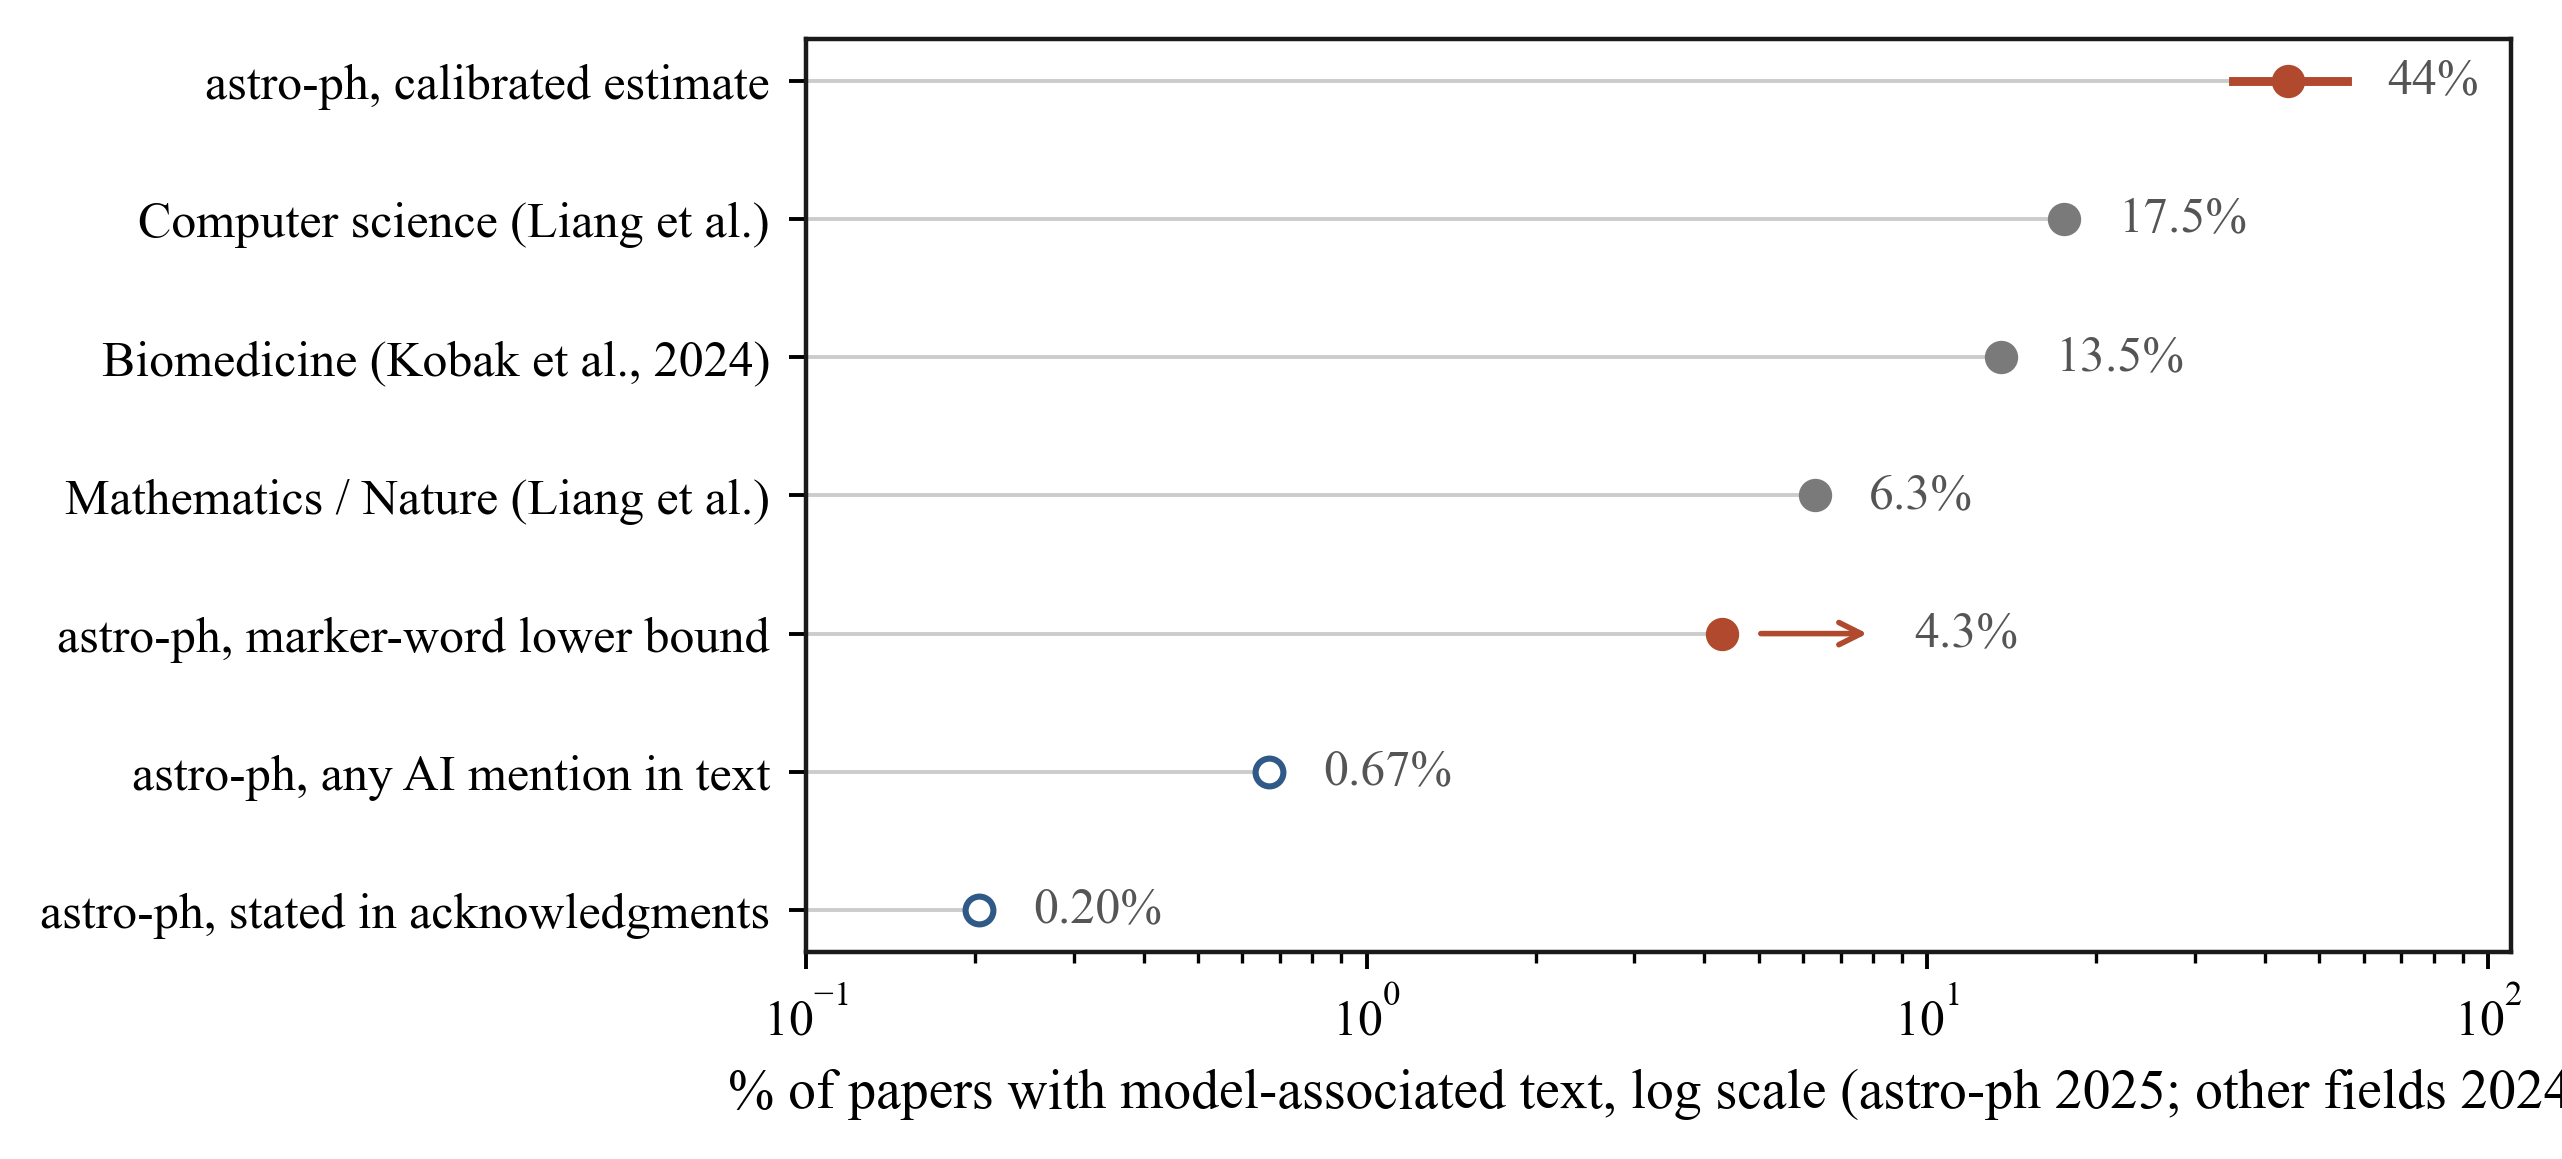
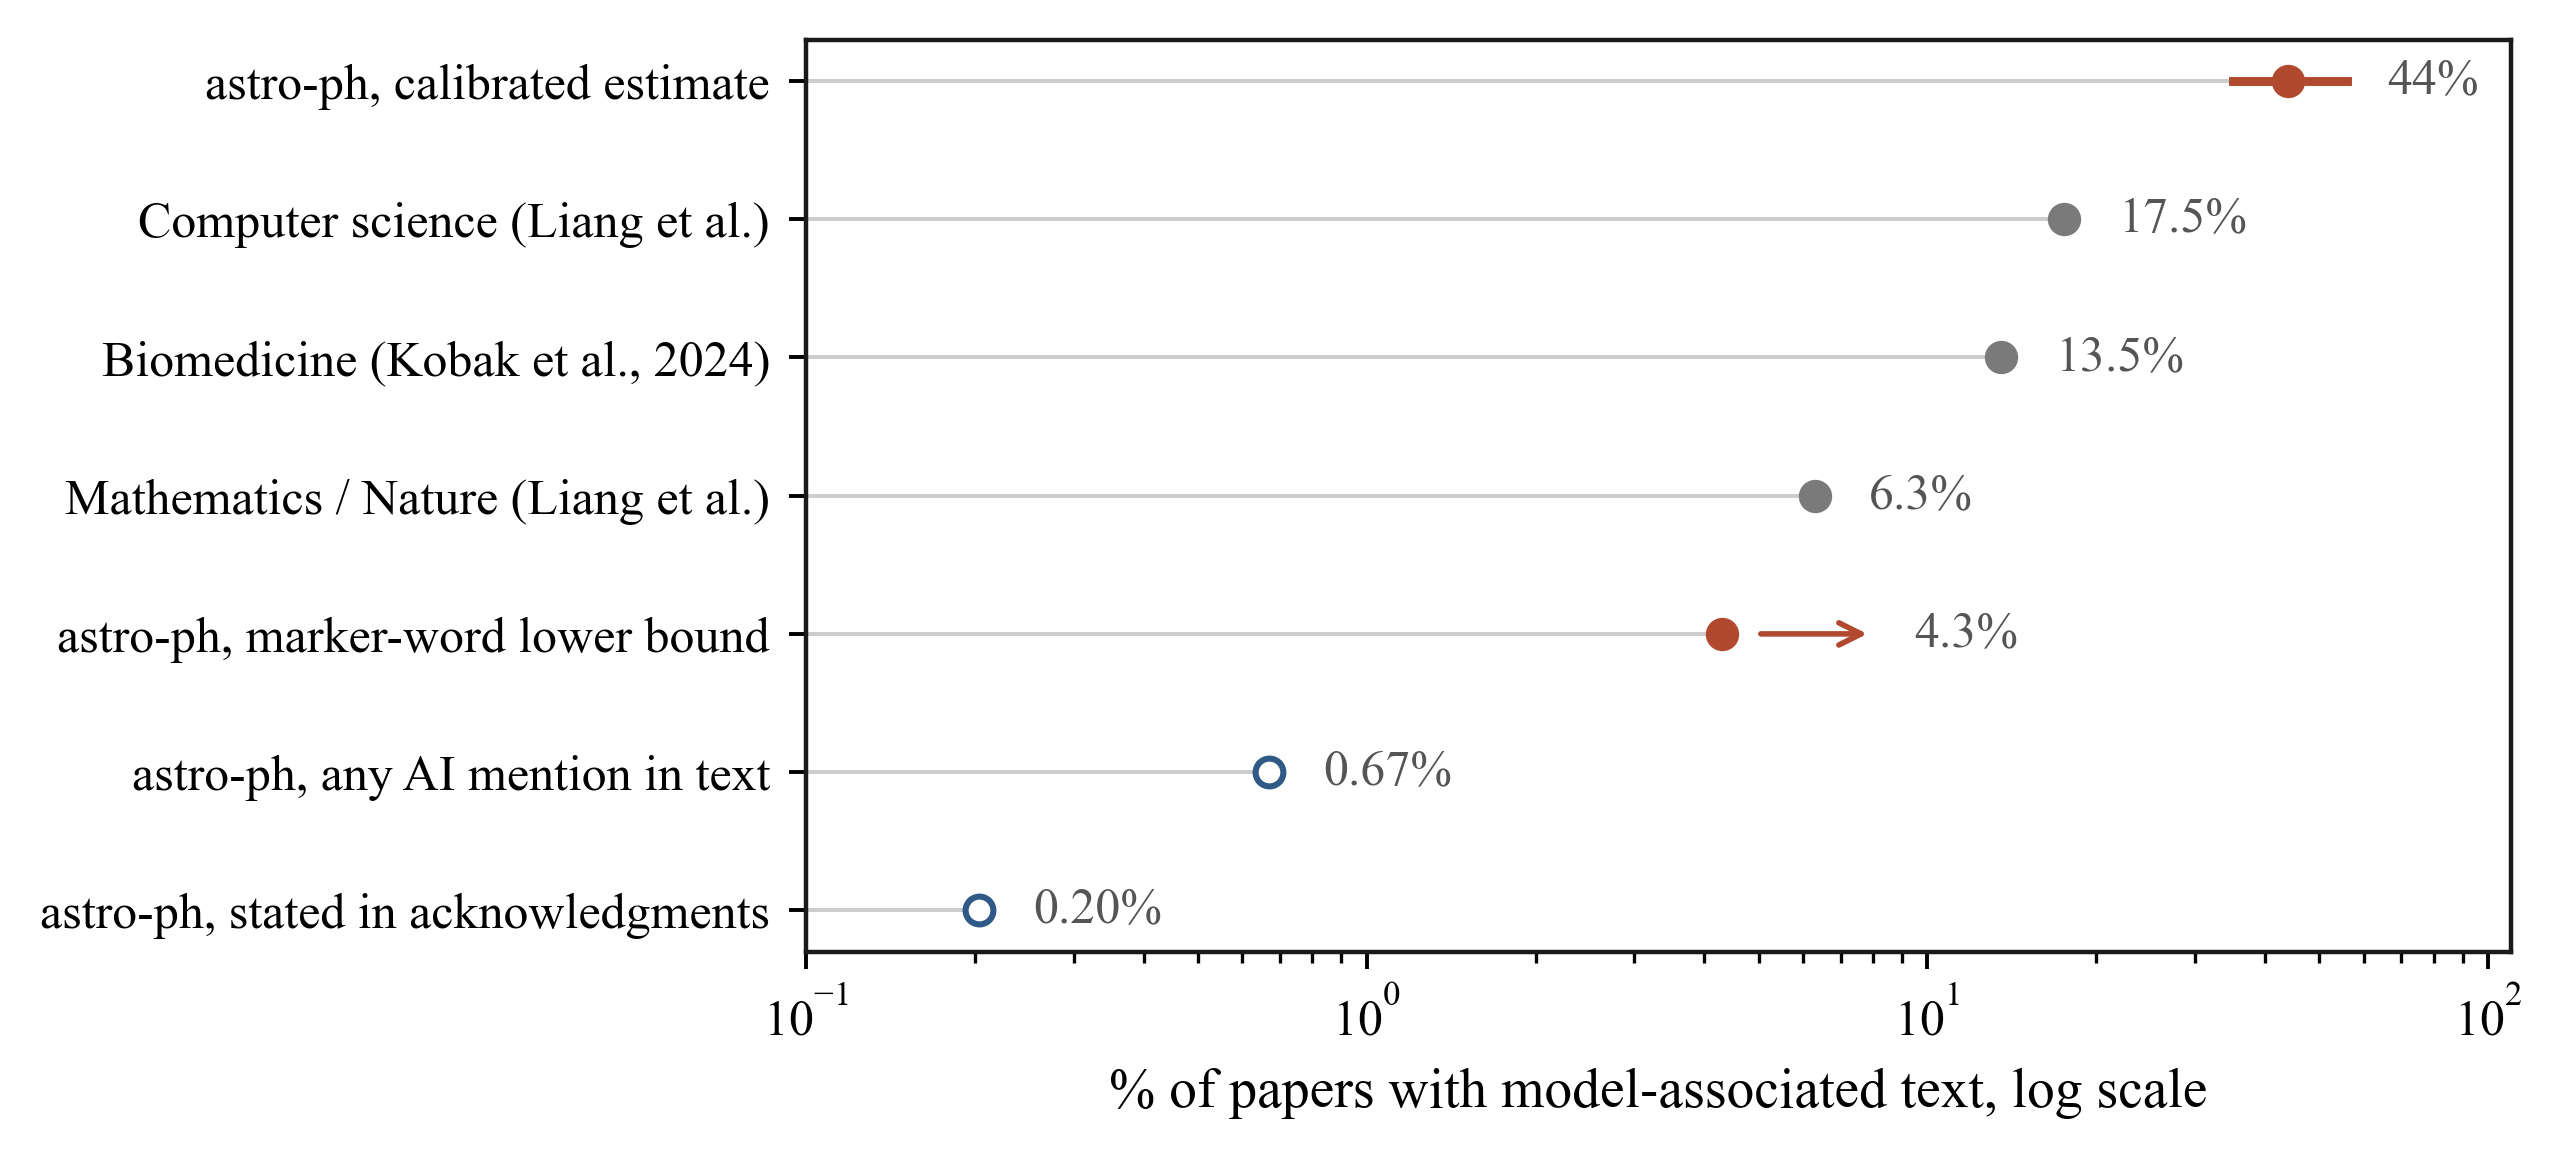
Fig 3: shorten x-axis label that clipped at the right margin; year note moved to caption

Changed region(s): [[0.281, 0.9008, 1.0, 0.9629], [0.3123, 0.0311, 0.968, 0.0621]]

diff --git a/src/plots.py b/src/plots.py
@@ -278,7 +278,7 @@ def fig5_gap():
     ax.set_yticks(ys); ax.set_yticklabels([r[0] for r in rows], fontsize=9)
     ax.invert_yaxis()
     ax.set_xscale("log"); ax.set_xlim(0.1, 110)
-    ax.set_xlabel("% of papers with model-associated text, log scale (astro-ph 2025; other fields 2024)", labelpad=4)
+    ax.set_xlabel("% of papers with model-associated text, log scale", labelpad=4)
     fig.tight_layout()
     fig.savefig(os.path.join(FIGS, "fig5_gap.png"), bbox_inches="tight")
     plt.close(fig)
